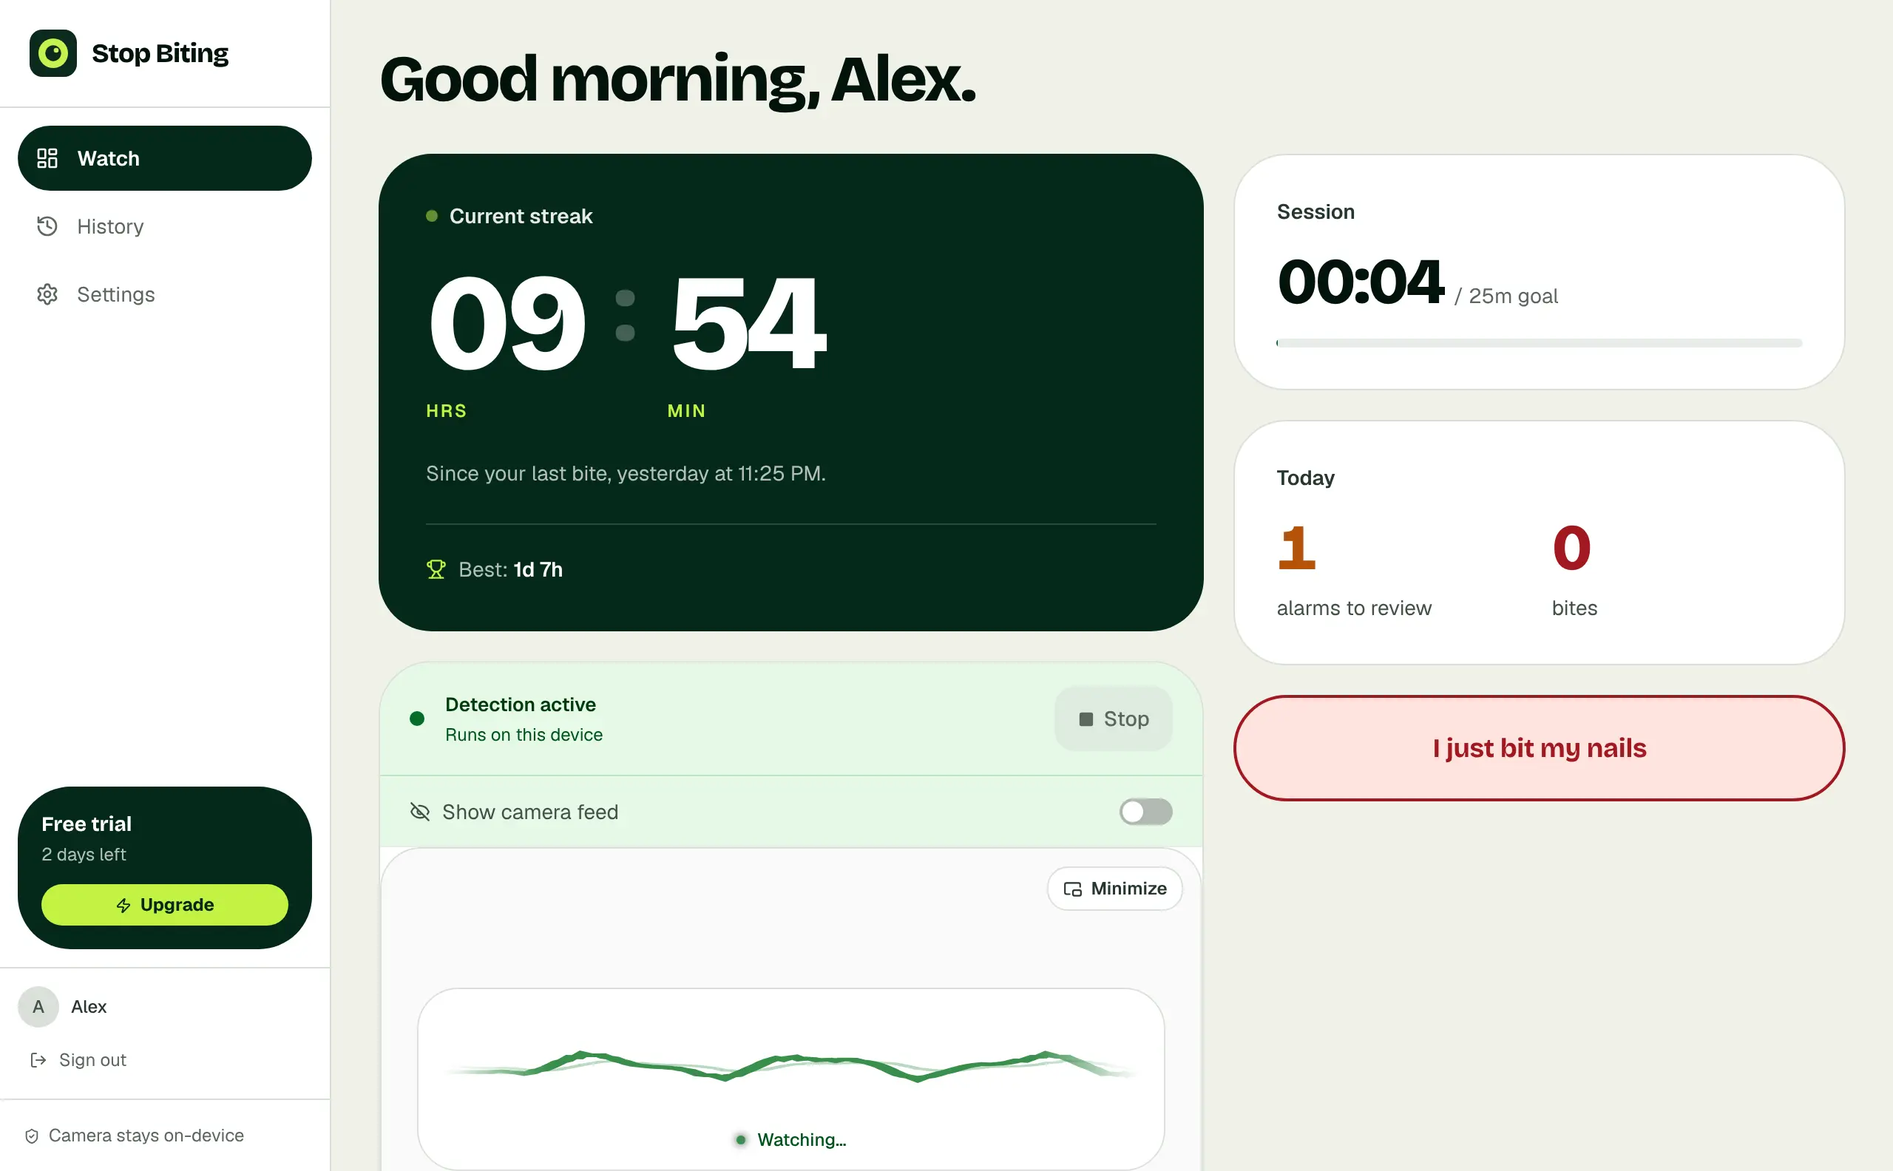
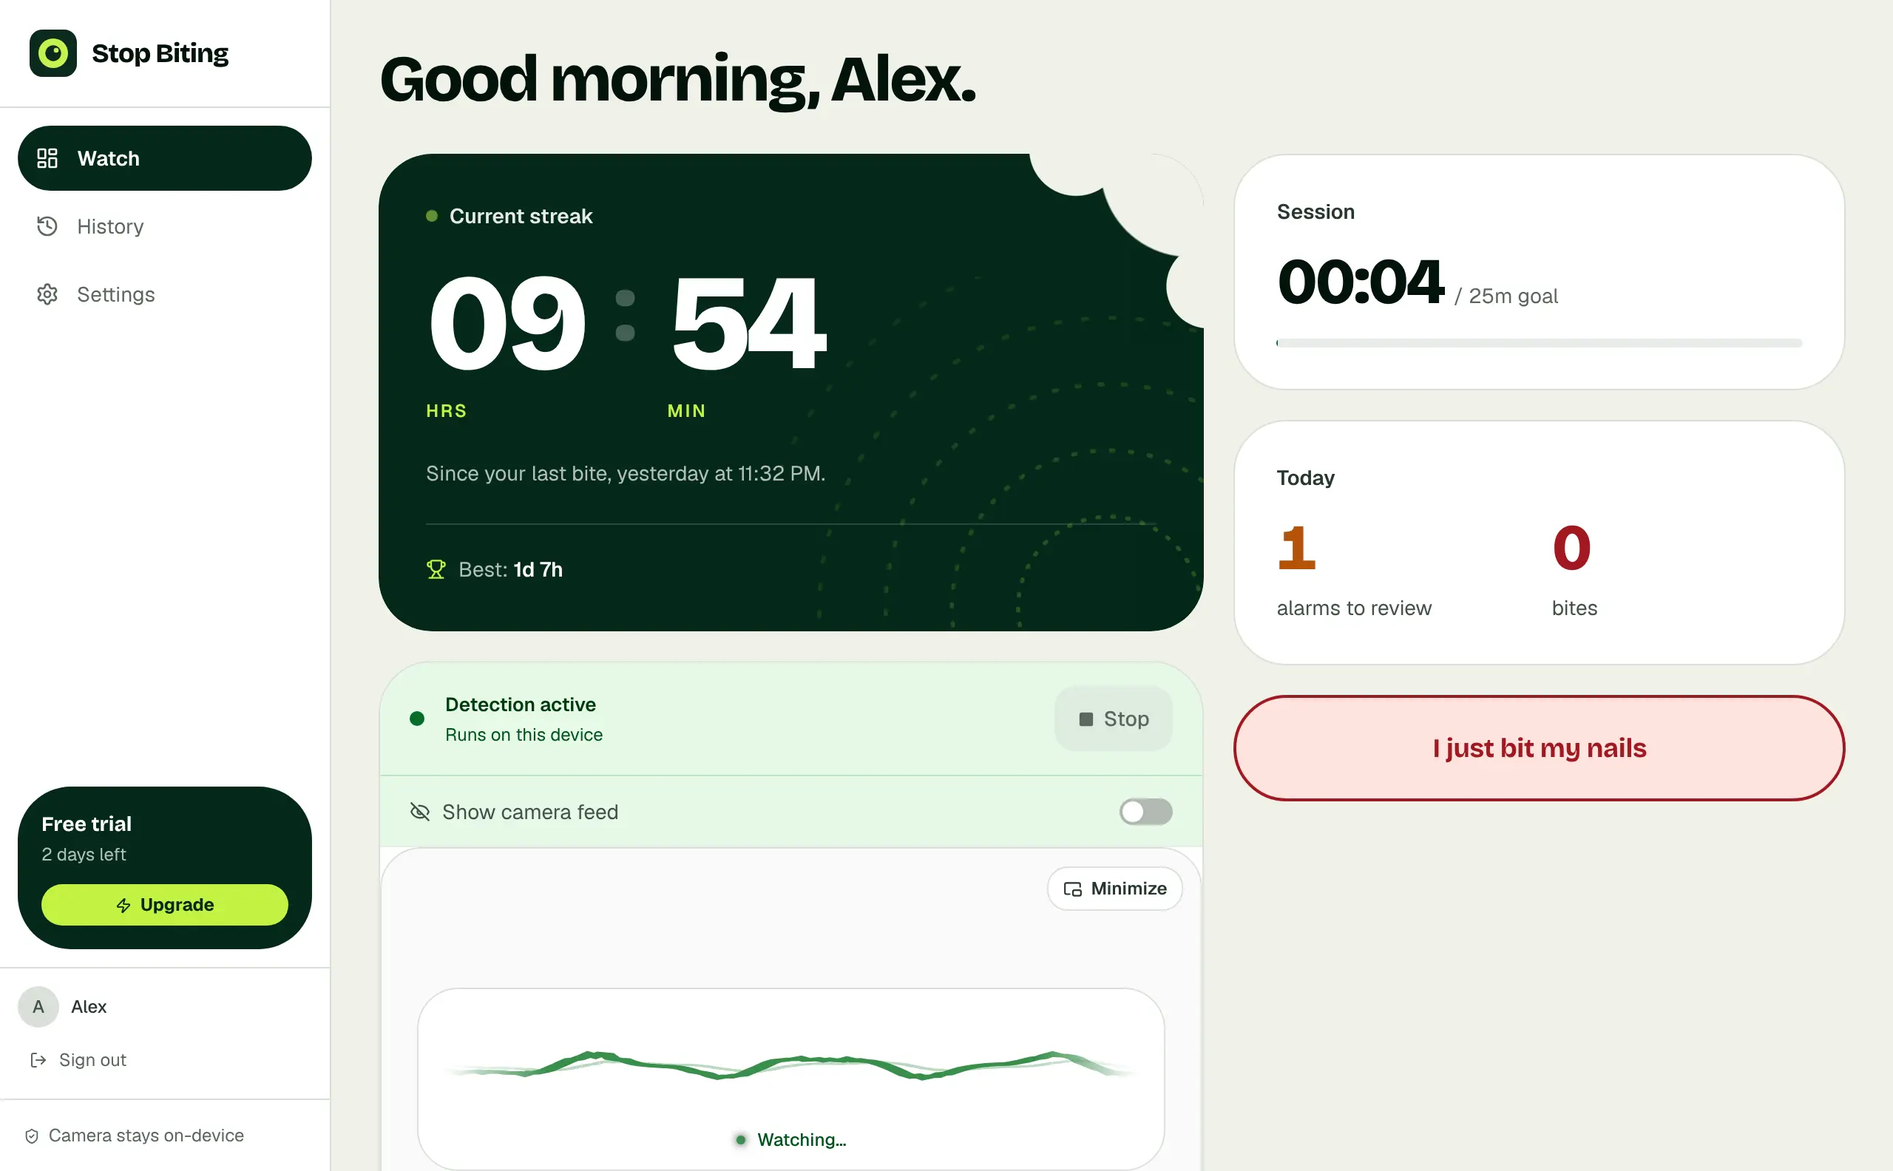
design: make it more original with signature motifs
- The bite: scalloped notch cut from card corners (hero, privacy, CTA, steps, app streak card)
- Dashed detection-zone rings behind deep cards
- Crooked lime ticker tape, sticker chips over screenshots, marker highlights on headlines
- New 'habit loop in three moves' section with lime, deep and coral blocks
- Coral 'ember' secondary accent (tokens + Tailwind)
- Recaptured landing screenshots; documented the motifs in DESIGN.md

Claude-Session: https://claude.ai/code/session_01Sf49UTf69wVoCrCormY25P

Changed region(s): [[0.5312, 0.1237, 0.6562, 0.2784], [0.2812, 0.8971, 0.4375, 0.928], [0.4688, 0.8971, 0.5938, 0.928]]

diff --git a/src/pages/Landing.tsx b/src/pages/Landing.tsx
@@ -7,6 +7,7 @@ import { ContactForm } from '../components/ContactForm';
 import { SiteHeader } from '../components/site/SiteHeader';
 import { SiteFooter } from '../components/site/SiteFooter';
 import { TrialButton } from '../components/site/TrialButton';
+import { Rings } from '../components/site/Rings';
 import { PromoVideo } from '../components/PromoVideo';
 import { PricingSection } from '../components/PricingSection';
 import { BLOG_INDEX } from '../data/blogIndex';
@@ -183,8 +184,9 @@ export function Landing({ authError = null, onDismissAuthError }: { authError?: 
         {/* ── HERO ──────────────────────────────────────────────────────── */}
         <section aria-label="Hero" className="pt-20 pb-16 lg:pt-24 lg:pb-24">
           <div className="sg-container">
-          <div className="sg-hero sg-dark grid items-start gap-12 p-6 pb-10 sm:p-10 lg:grid-cols-12 lg:gap-10 lg:p-14">
-            <div className="lg:col-span-6 lg:pt-4">
+          <div className="sg-hero sg-dark bite relative grid items-start gap-12 overflow-hidden p-6 pb-10 sm:p-10 lg:grid-cols-12 lg:gap-10 lg:p-14">
+            <Rings className="-bottom-72 -left-72 h-[44rem] w-[44rem]" />
+            <div className="relative lg:col-span-6 lg:pt-4">
               {authError && (
                 <div role="alert" className="mb-8 flex flex-wrap items-center gap-x-4 gap-y-2 rounded-2xl border border-[color:var(--sg-rule)] bg-white/10 px-4 py-3">
                   <p className="sg-small flex-1 text-[color:var(--sg-ink)]">{authErrorMessage(authError)}</p>
@@ -222,7 +224,7 @@ export function Landing({ authError = null, onDismissAuthError }: { authError?: 
                 then the real detector runs in its place. The heading and
                 paragraph render on page view: they are the crawler-visible
                 copy mirrored in server.js and must not hide behind the click. */}
-            <div className="flex flex-col items-start lg:col-span-6">
+            <div className="relative flex flex-col items-start lg:col-span-6">
               {demoStarted ? (
                 <div className="w-full">
                   <Suspense
@@ -242,7 +244,9 @@ export function Landing({ authError = null, onDismissAuthError }: { authError?: 
                 // The click gate. `HeroDemo` is behind `lazy()` and is only
                 // ever referenced above, so a page view fetches no chunk, no
                 // WebAssembly and no MediaPipe model.
-                <figure className="w-full">
+                <figure className="relative w-full">
+                  <span className="sg-sticker sg-sticker-lime -left-3 -top-4 sm:-left-5">3 days free, no card</span>
+                  <span className="sg-sticker sg-sticker-white bottom-14 -right-2 sm:-right-4">0 bytes of video sent</span>
                   <img
                     src="/shots/app-watch-1280.webp"
                     srcSet="/shots/app-watch-1280@1x.webp 1280w, /shots/app-watch-1280.webp 2560w"
@@ -299,6 +303,48 @@ export function Landing({ authError = null, onDismissAuthError }: { authError?: 
           </div>
         </section>
 
+        {/* ── TAPE ──────────────────────────────────────────────────────── */}
+        <div aria-hidden="true" className="relative z-10 -my-2 overflow-hidden py-6">
+          <div className="sg-tape">
+            <div className="sg-tape__track">
+              {[0, 1].map(n => (
+                <div key={n} className="sg-tape__item">
+                  {['Notice it', 'Interrupt it', 'Replace it', 'Repeat'].map(w => (
+                    <span key={w} className="inline-flex items-center gap-8">
+                      {w}
+                      <svg width="34" height="34" viewBox="0 0 96 96" aria-hidden="true"><circle cx="48" cy="48" r="30" fill="currentColor" /><circle cx="48" cy="48" r="16" fill="var(--c-signal)" /><circle cx="54" cy="42" r="5" fill="currentColor" /></svg>
+                    </span>
+                  ))}
+                </div>
+              ))}
+            </div>
+          </div>
+        </div>
+
+        {/* ── THE LOOP ──────────────────────────────────────────────────── */}
+        {/* Habit reversal training in three moves, the same three the science
+            section below describes: notice, interrupt, replace. */}
+        <section aria-labelledby="loop-heading" className="py-16 lg:py-24">
+          <div className="sg-container">
+            <h2 id="loop-heading" className="sg-h2 max-w-[18ch]">A habit loop, <span className="sg-mark">broken</span> in three moves</h2>
+            <div className="mt-12 grid gap-5 md:grid-cols-3">
+              {[
+                { n: '01', t: 'Notice', d: 'The alarm catches the bite you would never have noticed. Most of them happen on autopilot.', cls: 'bg-lime-300 text-deep', num: 'text-deep/90' },
+                { n: '02', t: 'Interrupt', d: 'It sounds the moment a fingertip reaches your lips, while the habit is still automatic.', cls: 'bg-deep text-white', num: 'text-lime-300' },
+                { n: '03', t: 'Replace', d: 'Press your palms flat or clench a fist. That part is yours, and it is what makes the habit fade.', cls: 'bg-ember text-deep', num: 'text-deep/90' },
+              ].map(({ n, t, d, cls, num }) => (
+                <div key={n} className={`bite flex min-h-[22rem] flex-col justify-between rounded-[2rem] p-7 sm:p-8 [--bite:44px] ${cls}`}>
+                  <span className={`font-display text-[7.5rem] font-extrabold leading-[0.8] tracking-[-0.06em] ${num}`}>{n}</span>
+                  <div>
+                    <h3 className="font-display text-3xl font-extrabold tracking-[-0.03em]">{t}</h3>
+                    <p className="mt-3 text-lg leading-snug opacity-85">{d}</p>
+                  </div>
+                </div>
+              ))}
+            </div>
+          </div>
+        </section>
+
         {/* ── HISTORY ───────────────────────────────────────────────────── */}
         {/* The other half of the product, shown rather than described: the
             real History screen, captured with example data (public/shots;
@@ -309,13 +355,14 @@ export function Landing({ authError = null, onDismissAuthError }: { authError?: 
               of the page. */}
           <div className="sg-container grid items-start gap-10 lg:grid-cols-12">
             <div className="lg:col-span-6 lg:sticky lg:top-28 lg:pt-10">
-              <h2 id="app-heading" className="sg-h2 max-w-[18ch]">Every catch ends up in History</h2>
+              <h2 id="app-heading" className="sg-h2 max-w-[18ch]">Every catch ends up in <span className="sg-mark">History</span></h2>
               <p className="sg-body sg-measure mt-5">
                 Each alarm and each bite you log lands here with the time. Tag what set it off
                 (stress, boredom, deep focus) and after a week you can see which one is yours.
               </p>
             </div>
-            <figure className="mx-auto w-full max-w-[16rem] sm:max-w-[20rem] lg:col-span-4 lg:col-start-8">
+            <figure className="relative mx-auto w-full max-w-[16rem] sm:max-w-[20rem] lg:col-span-4 lg:col-start-8">
+              <span className="sg-sticker sg-sticker-ember -left-6 top-28 sm:-left-14">Tag what set it off</span>
               <img
                 src="/shots/app-history-390.webp"
                 width={390}
@@ -354,7 +401,7 @@ export function Landing({ authError = null, onDismissAuthError }: { authError?: 
             flow. The green "do this" sign appears here once. */}
         <section id="how" aria-labelledby="how-heading" className="py-4 lg:py-8">
           <div className="sg-container">
-          <div className="grid gap-6 rounded-[2rem] bg-[color:var(--sg-signal)] p-6 sm:p-10 lg:grid-cols-12 lg:items-start lg:gap-10 lg:rounded-[3rem] lg:p-14">
+          <div className="bite grid gap-6 rounded-[2rem] bg-[color:var(--sg-signal)] p-6 sm:p-10 lg:grid-cols-12 lg:items-start lg:gap-10 lg:rounded-[3rem] lg:p-14">
             <div className="flex items-center gap-4 lg:col-span-4">
               <span className="sg-sign sg-sign-m"><ArrowRight size={26} aria-hidden="true" /></span>
               <h2 id="how-heading" className="sg-h2">How to start</h2>
@@ -391,7 +438,7 @@ export function Landing({ authError = null, onDismissAuthError }: { authError?: 
           <div className="sg-container grid gap-12 lg:grid-cols-12 lg:gap-10">
             <div className="lg:col-span-7">
               <h2 id="science-heading" className="sg-h2 max-w-[18ch]">
-                Why an alarm works when willpower doesn't
+                Why an alarm works when <span className="sg-mark">willpower</span> doesn't
               </h2>
 
               <div className="sg-measure mt-8 space-y-5">
@@ -453,7 +500,8 @@ export function Landing({ authError = null, onDismissAuthError }: { authError?: 
         {/* ── PRIVACY ───────────────────────────────────────────────────── */}
         <section id="privacy" aria-labelledby="privacy-heading" className="pb-20 lg:pb-28">
           <div className="sg-container">
-            <div className="sg-hero sg-dark overflow-hidden">
+            <div className="sg-hero sg-dark bite relative overflow-hidden">
+              <Rings className="-bottom-80 -right-40 h-[42rem] w-[42rem]" />
               <div className="flex flex-col items-start gap-6 p-6 sm:p-10 lg:p-14">
                 <span className="sg-sign sg-sign-e"><ShieldCheck size={28} aria-hidden="true" /></span>
                 <h2 id="privacy-heading" className="sg-h2 max-w-[20ch]">Your camera never leaves <span className="sg-hl">your device.</span></h2>
@@ -582,8 +630,9 @@ export function Landing({ authError = null, onDismissAuthError }: { authError?: 
         {/* The one full green field on the page: a mandatory sign, blown up. */}
         <section aria-label="Call to action" className="sg-band pb-10 lg:pb-14">
           <div className="sg-container">
-          <div className="sg-hero sg-dark flex flex-col items-start gap-8 p-8 py-14 sm:p-12 lg:flex-row lg:items-center lg:justify-between lg:p-16">
-            <div>
+          <div className="sg-hero sg-dark bite relative flex flex-col items-start gap-8 overflow-hidden p-8 py-14 sm:p-12 lg:flex-row lg:items-center lg:justify-between lg:p-16">
+            <Rings className="-left-64 -top-64 h-[40rem] w-[40rem]" />
+            <div className="relative">
               {/* Display size, like the hero's h1: the page's one full-bleed field
                   is its closing peak, not one more section heading. */}
               <h2 className="sg-h1 max-w-[12ch]">Catch your next <span className="sg-hl">bite.</span></h2>
@@ -591,7 +640,7 @@ export function Landing({ authError = null, onDismissAuthError }: { authError?: 
                 Leave it running through your next workday, then open History and see when you bite.
               </p>
             </div>
-            <div className="flex flex-col items-start gap-3">
+            <div className="relative flex flex-col items-start gap-3">
               <TrialButton tone="light" source="landing_final" />
               <p className="sg-note whitespace-nowrap">{OFFER_LINE}</p>
             </div>

diff --git a/src/index.css b/src/index.css
@@ -84,6 +84,7 @@
   --c-signal: oklch(90% 0.2 124);         /* lime: highlight + CTA on deep, #C6F24E */
   --c-signal-press: oklch(84% 0.19 124);
   --c-alert: oklch(60% 0.2 28);           /* bites, alarms */
+  --c-ember: oklch(75% 0.16 50);          /* warm second accent: stickers, blocks */
   --radius-card: 1.75rem;
   --radius-pill: 999px;
 }
@@ -679,3 +680,50 @@ html.dark .ed-page { --ed-hairline: oklch(32% 0.010 200); }
   .sg-btn { transition: none; }
 }
 }
+
+/* ── Signature motifs ───────────────────────────────────────────────────────
+   The bite: a scalloped notch taken out of a card's top-right corner, the same
+   gesture as the logo. Use --bite to size it (default 64px). Anything inside
+   the notch is clipped, so keep content clear of the corner. */
+.bite {
+  --bite: 64px;
+  -webkit-mask:
+    radial-gradient(circle calc(var(--bite) * 0.95) at calc(100% - var(--bite) * 0.15) calc(var(--bite) * 0.15), #0000 98%, #000),
+    radial-gradient(circle calc(var(--bite) * 0.5) at calc(100% - var(--bite) * 1.35) calc(var(--bite) * -0.05), #0000 98%, #000),
+    radial-gradient(circle calc(var(--bite) * 0.45) at calc(100% + var(--bite) * 0.05) calc(var(--bite) * 1.4), #0000 98%, #000);
+  -webkit-mask-composite: source-in;
+  mask:
+    radial-gradient(circle calc(var(--bite) * 0.95) at calc(100% - var(--bite) * 0.15) calc(var(--bite) * 0.15), #0000 98%, #000),
+    radial-gradient(circle calc(var(--bite) * 0.5) at calc(100% - var(--bite) * 1.35) calc(var(--bite) * -0.05), #0000 98%, #000),
+    radial-gradient(circle calc(var(--bite) * 0.45) at calc(100% + var(--bite) * 0.05) calc(var(--bite) * 1.4), #0000 98%, #000);
+  mask-composite: intersect;
+}
+@media (max-width: 640px) { .bite { --bite: 40px; } }
+
+/* Detection-zone rings: dashed concentric circles, the "threshold" the alarm
+   watches. Decorative; sits behind content. */
+.rings { position: absolute; pointer-events: none; color: var(--c-signal); opacity: 0.2; }
+
+/* Marker highlight under a word on paper. */
+.sg-mark {
+  background: linear-gradient(transparent 56%, var(--c-signal) 56%, var(--c-signal) 92%, transparent 92%);
+  border-radius: 0.15em; padding-inline: 0.12em; margin-inline: -0.12em;
+  -webkit-box-decoration-break: clone; box-decoration-break: clone;
+}
+
+/* Stickers: slightly crooked pills that sit over a corner of something real. */
+.sg-sticker {
+  position: absolute; z-index: 2; display: inline-flex; align-items: center; gap: 0.5rem;
+  padding: 0.6rem 1.1rem; border-radius: 999px; white-space: nowrap;
+  font-family: var(--font-display); font-weight: 750; font-size: 1rem; letter-spacing: -0.01em;
+}
+.sg-sticker-lime { background: var(--c-signal); color: var(--c-deep); transform: rotate(-6deg); }
+.sg-sticker-ember { background: var(--c-ember); color: var(--c-deep); transform: rotate(5deg); }
+.sg-sticker-white { background: #fff; color: var(--c-deep); transform: rotate(3deg); }
+
+/* Ticker tape: a crooked lime band of display words, drifting slowly. */
+.sg-tape { background: var(--c-signal); color: var(--c-deep); overflow: hidden; transform: rotate(-1.6deg); margin-inline: -4vw; padding-block: 1.1rem; }
+.sg-tape__track { display: flex; width: max-content; animation: sg-tape 38s linear infinite; }
+.sg-tape__item { display: inline-flex; align-items: center; gap: 2rem; padding-right: 2rem; font-family: var(--font-display); font-weight: 800; letter-spacing: -0.04em; font-size: clamp(2rem, 1.2rem + 3.2vw, 4.25rem); line-height: 1; white-space: nowrap; }
+@keyframes sg-tape { to { transform: translateX(-50%); } }
+@media (prefers-reduced-motion: reduce) { .sg-tape__track { animation: none; } }

diff --git a/src/components/dashboard/StreakHero.tsx b/src/components/dashboard/StreakHero.tsx
@@ -1,6 +1,7 @@
 import { Trophy } from 'lucide-react';
 import { useStreak } from '../../hooks/useStreak';
 import { useAppStore } from '../../store/useAppStore';
+import { Rings } from '../site/Rings';
 import { formatDate, formatTime } from '../../utils/time';
 
 function Segment({ value, label }: { value: number; label: string }) {
@@ -39,9 +40,10 @@ export function StreakHero() {
 
   return (
     <div
-      className="bg-deep text-white rounded-3xl p-6 sm:p-8 dark:border dark:border-white/10"
+      className="bite relative overflow-hidden bg-deep text-white rounded-3xl p-6 sm:p-8 [--bite:44px]"
       data-tour="streak-card"
     >
+      <Rings className="-bottom-52 -right-40 h-[28rem] w-[28rem]" />
       {/* Overline */}
       <div className="flex items-center gap-2 mb-6">
         <span className="w-2 h-2 rounded-full bg-lime-300 animate-pulse" />
@@ -49,12 +51,12 @@ export function StreakHero() {
           Current streak
         </p>
         {isGreat && (
-          <span className="ml-auto rounded-full bg-lime-300 px-3 py-1 text-xs font-bold text-deep">On a roll</span>
+          <span className="rounded-full bg-lime-300 px-3 py-1 text-xs font-bold text-deep">On a roll</span>
         )}
       </div>
 
       {/* Ticker */}
-      <div className="flex items-start gap-3 sm:gap-5">
+      <div className="relative flex items-start gap-3 sm:gap-5">
         {streakDays > 0 && (
           <>
             <Segment value={streakDays} label="days" />
@@ -65,7 +67,7 @@ export function StreakHero() {
         <Colon />
         <Segment value={streakMinutes} label="min" />
       </div>
-      <p className="mt-6 text-sm text-white/70">{since}</p>
+      <p className="relative mt-6 text-sm text-white/70">{since}</p>
 
       {/* Best streak */}
       <div className="mt-6 pt-5 border-t border-white/15 flex items-center gap-2 text-white/70 text-sm">

diff --git a/src/components/site/Rings.tsx b/src/components/site/Rings.tsx
@@ -1,0 +1,19 @@
+// Detection-zone rings: dashed concentric circles around a point, the
+// "threshold" the alarm watches. Purely decorative; position it with className.
+export function Rings({ className = '' }: { className?: string }) {
+  return (
+    <svg
+      aria-hidden="true"
+      viewBox="-400 -400 800 800"
+      className={`rings ${className}`}
+      fill="none"
+      stroke="currentColor"
+      strokeLinecap="round"
+      strokeWidth="5"
+    >
+      {[110, 190, 270, 350, 430].map((r, i) => (
+        <circle key={r} r={r} strokeDasharray={`${2 + i} ${16 + i * 4}`} opacity={1 - i * 0.16} />
+      ))}
+    </svg>
+  );
+}

diff --git a/tailwind.config.js b/tailwind.config.js
@@ -92,6 +92,7 @@ export default {
           300: 'oklch(90%   0.20  124 / <alpha-value>)',
           400: 'oklch(84%   0.19  124 / <alpha-value>)',
         },
+        ember: 'oklch(75% 0.16 50 / <alpha-value>)',
         deep: {
           DEFAULT: 'oklch(25% 0.05 162 / <alpha-value>)',
           2: 'oklch(31% 0.06 160 / <alpha-value>)',

diff --git a/DESIGN.md b/DESIGN.md
@@ -82,6 +82,23 @@ journal primitives (`.ed-*`) read the same fonts, colours and radii.
   card mark (`scripts/generate-og-images.mjs`). Avoid anything finger- or
   nail-shaped.
 
+## Signature motifs
+
+What keeps the system from looking like any other wellness template:
+
+- **The bite** (`.bite`, `--bite` sizes it): a scalloped notch taken out of a card's
+  top-right corner, echoing the product and the logo. Used on the hero, privacy and
+  closing cards, the three-step cards and the app's streak card. Keep content out of
+  the corner, and don't use it on anything with elements that overhang its edge.
+- **Detection rings** (`<Rings />`): dashed concentric circles, the zone the alarm
+  watches, faint behind deep cards.
+- **Ticker tape** (`.sg-tape`): a crooked lime band of display words ("Notice it,
+  Interrupt it, Replace it, Repeat") between hero and content. Static under reduced motion.
+- **Stickers** (`.sg-sticker-*`): crooked pills over the corner of a real screenshot.
+- **Marker** (`.sg-mark`): a lime highlighter swash under one key word of a headline.
+- **Ember** (`--c-ember`, `bg-ember`): a warm coral second accent, only for stickers
+  and one block in a set. Never for actions.
+
 ## Do
 
 - Use `.sg-dark` for any deep surface so text, rules and buttons re-point
